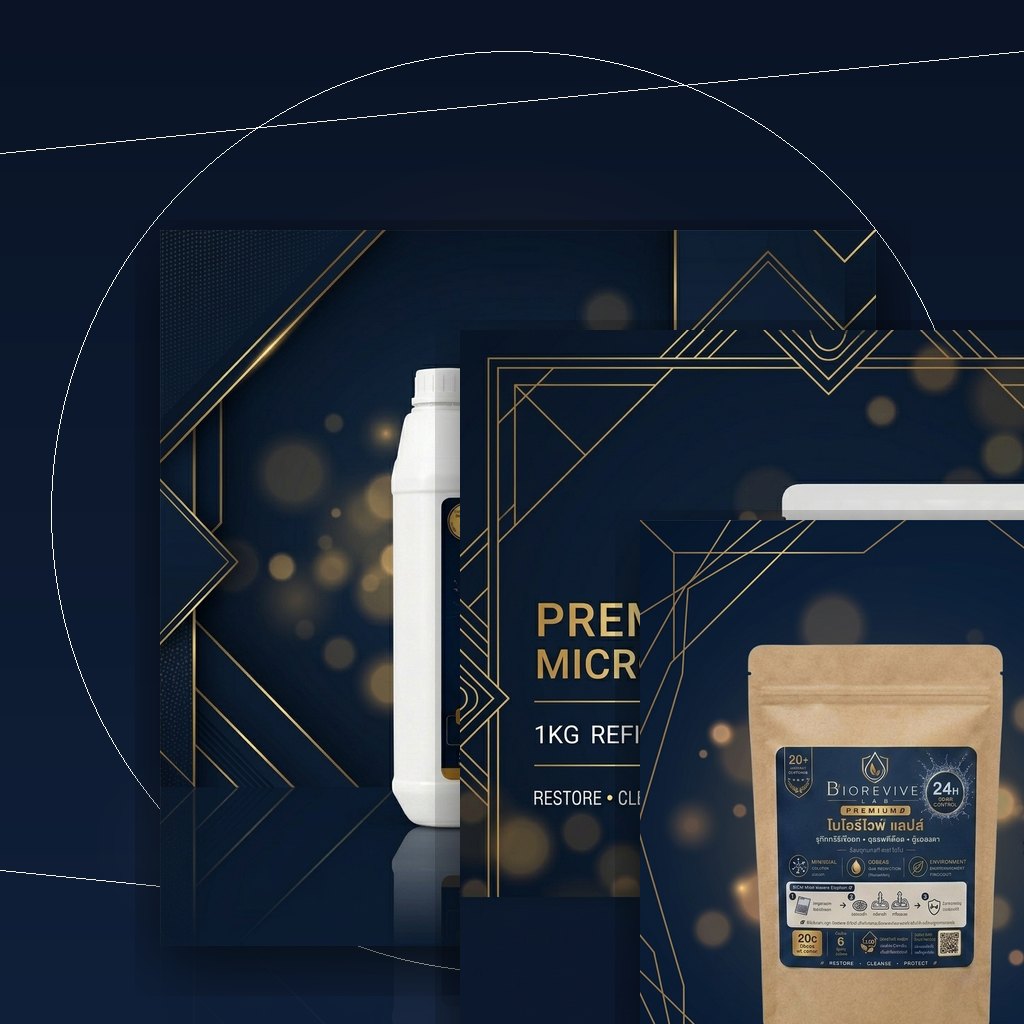
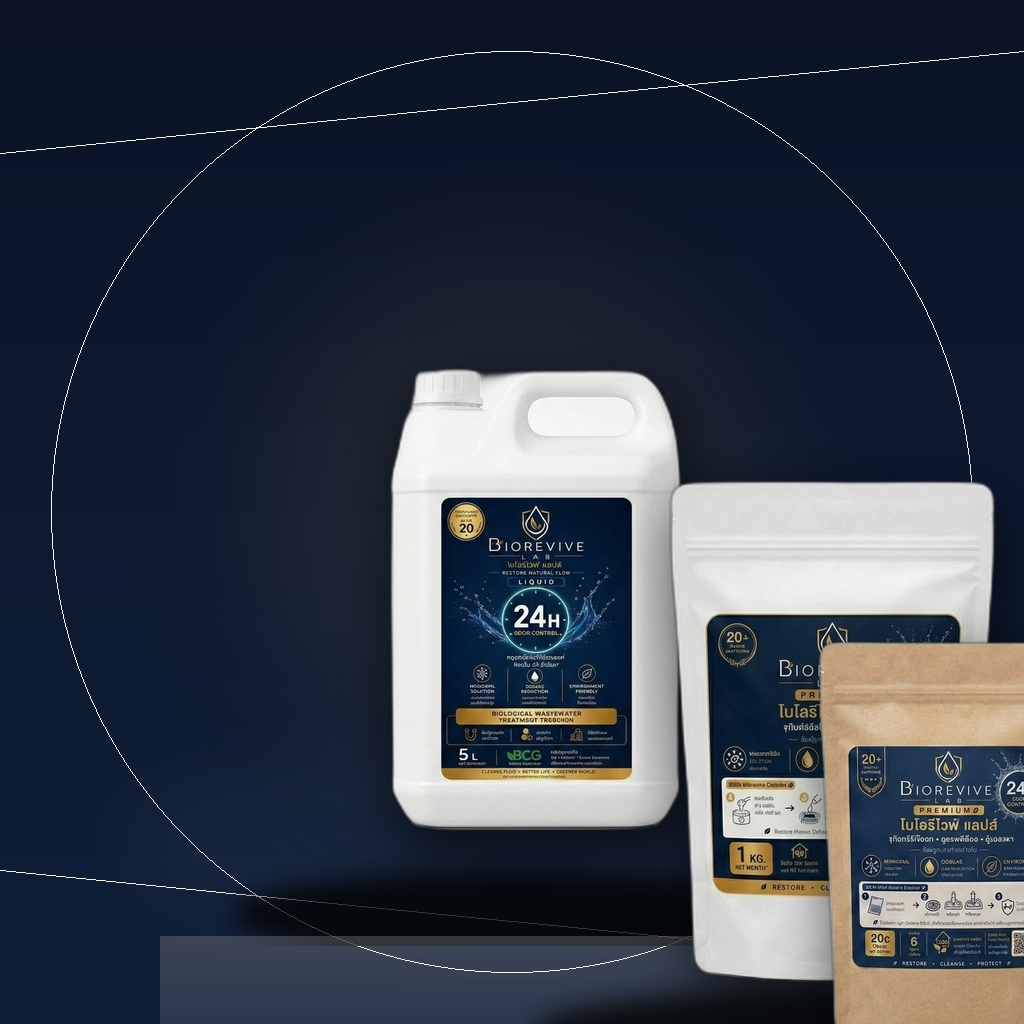
Revert promo sets to use transparent nobg assets to fix overlapping square backgrounds

diff --git a/compose_promo_sets.py b/compose_promo_sets.py
@@ -6,12 +6,12 @@ ASSETS_DIR = r"C:\BioRevive_Master\assets"
 CATALOG_DIR = os.path.join(ASSETS_DIR, "catalog")
 OUTPUT_DIR = ASSETS_DIR
 
-# Products from the catalog folder
-PROD_1L = os.path.join(CATALOG_DIR, "catalog_liquid_1l.png")
-PROD_5L = os.path.join(CATALOG_DIR, "catalog_liquid_5l.png")
-PROD_1KG = os.path.join(CATALOG_DIR, "catalog_pouch_1kg.png")
-PROD_6KG = os.path.join(CATALOG_DIR, "catalog_bucket_6kg.png")
-PROD_TEABAG = os.path.join(CATALOG_DIR, "catalog_teabag.png")
+# Products from the catalog folder (transparent cutout versions)
+PROD_1L = os.path.join(ASSETS_DIR, "ad_liquid_1l_nobg.png")
+PROD_5L = os.path.join(ASSETS_DIR, "ad_liquid_5l_nobg.png")
+PROD_1KG = os.path.join(ASSETS_DIR, "ad_pouch_white_1kg_nobg.png")
+PROD_6KG = os.path.join(ASSETS_DIR, "ad_bucket_6kg_nobg.png")
+PROD_TEABAG = os.path.join(ASSETS_DIR, "ad_teabag_with_6teabags_nobg.png")
 
 def create_set_v3(name, products, output_filename):
     print(f"Creating Premium Catalog {name}...")
